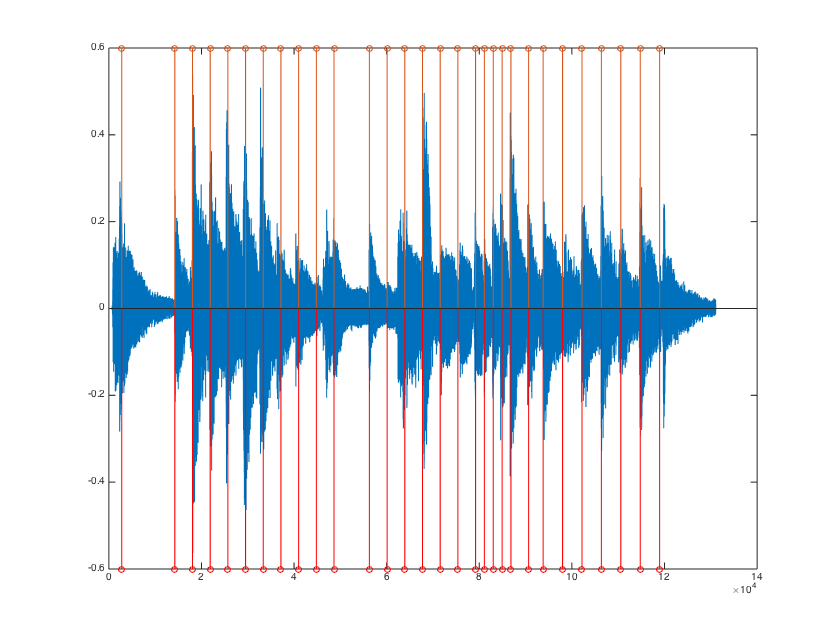
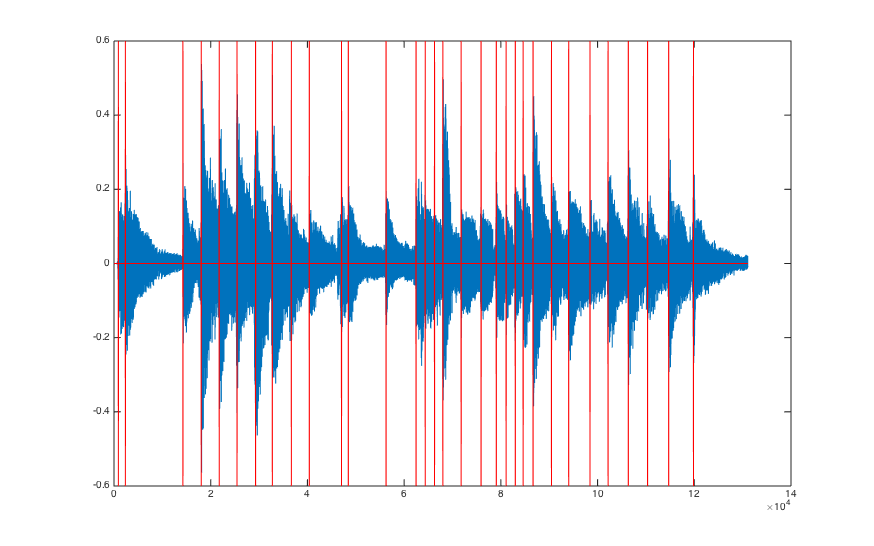
Change the way of finding beats

diff --git a/report/report.md b/report/report.md
@@ -204,7 +204,7 @@ function wave2proc = preprocess(realwave, cycle)
 
 为了自动标记出每个音调的起始时间，我们先来分析时域波形幅度的特点。
 
-在起始点前 700ms ~ 200ms 处，之前音调的音量已经基本消失，并基本保持不变。我们把这一段称为 **谷段**，如图所示：
+在起始点前 700 ~ 200ms 处，之前音调的音量已经基本消失，并基本保持不变。我们把这一段称为 **谷段**，如图所示：
 
 ![valley](valley_part.png)
 
@@ -227,6 +227,7 @@ function avg = moving_avg(x, lag_from, lag_to)
 然后计算峰值与其的比值，并截去过大的值
 
 ```matlab
+abs_wave = abs(wave);
 avg = abs_wave ./ moving_avg(abs_wave, 700, 200);
 avg(avg > 10) = 10;
 avg(isnan(avg)) = 0;  % Caused by 0/0
@@ -236,56 +237,38 @@ avg(isnan(avg)) = 0;  % Caused by 0/0
 
 ![match result](match_beginning.png)
 
-然后根据图像，我们设置一个阈值，去除比值过小的点。这里选取阈值为 3.5。
+然后根据图像，我们设置一个阈值，同时去除以下点：
+* 比值过小的点（这里选取阈值为 3.5）
+* 峰值过小的点（这里选取阈值为 0.1）
+* 坡段上升速度过小的点（这里选取 50 ~ 0ms 与 100 ~ 50ms 的比值，阈值取 1.3）
 
 ```matlab
-avg(avg < 3.5) = 0;
+rising0 = moving_avg(abs_wave, 100, 50);
+rising1 = moving_avg(abs_wave, 50, 0);
+avg(avg < 3.5 | abs_wave < 0.1 | 1.3 * rising0 > rising1) = 0;
 ```
 
 得到结果如下：
 
 ![match](match.png)
 
-可以看到，音调起始点都被很好地识别了出来。
-
-我们首先来确定这段音乐的节拍。从图上可以看出，这段音乐中一拍的经历的采样点数大概是 3000 ~ 4500。
-
-为了得到更精确的数字，我们可以求在不同的节拍下，周期采样匹配结果得到的均值的最大值。这是因为，如果周期与节拍对应，大多数匹配点都会落在同一个序列中，故均值较大。代码如下：
+合并相邻点并归一化，并与原波形一同显示：
 
 ```matlab
-%% period_avg: Calculate the avg in a period of time
-function avg = period_avg(x, period)
-    row = period;
-    col = floor(length(x) / row);
-    avg = mean(reshape(x(1:row*col), [row, col])')';
-```
-
-```matlab
-from = 3000;
-to = 4500;
-max_mean = zeros(1, to - from + 1);
-for k = 3000:4500
-    max_mean(k - from + 1) = max(period_avg(avg, k));
+[value, index] = sort(avg, 'descend');
+t = 1:length(avg);
+for k = t
+    if avg(index(k)) > 0
+        avg(t > index(k) - 500 & t < index(k) + 500 & t ~= index(k)) = 0;
+    end
 end
+avg(avg > 0) = 1;
 ```
 
-我们通过 `max` 取得谐振峰：
-
-```matlab
-[value, index] = max(max_mean);
-```
-
-可以得到 `index = 822`, 如图：
-
-![find period](find_period.png)
-
-故节拍为 3821 个采样周期。如图所示：
-
-![match with bests](match_with_beats.png)
-
-可以看到，尽管结尾处有些偏差，节拍的总体拟合度是很好的。我们对最后 7 个音调重新拟合，得到节拍为 4195 个采样周期。同时，去掉结尾处的错误匹配，去除混叠过于严重的音节和空音节，加入两个半音节。在原波形上画出修正后的音节划分：
 
 ![beats](beats.png)
+
+可以看到，音调起始点都被很好地识别了出来。
 
 
 ## 3. 基于傅里叶级数的合成音乐
